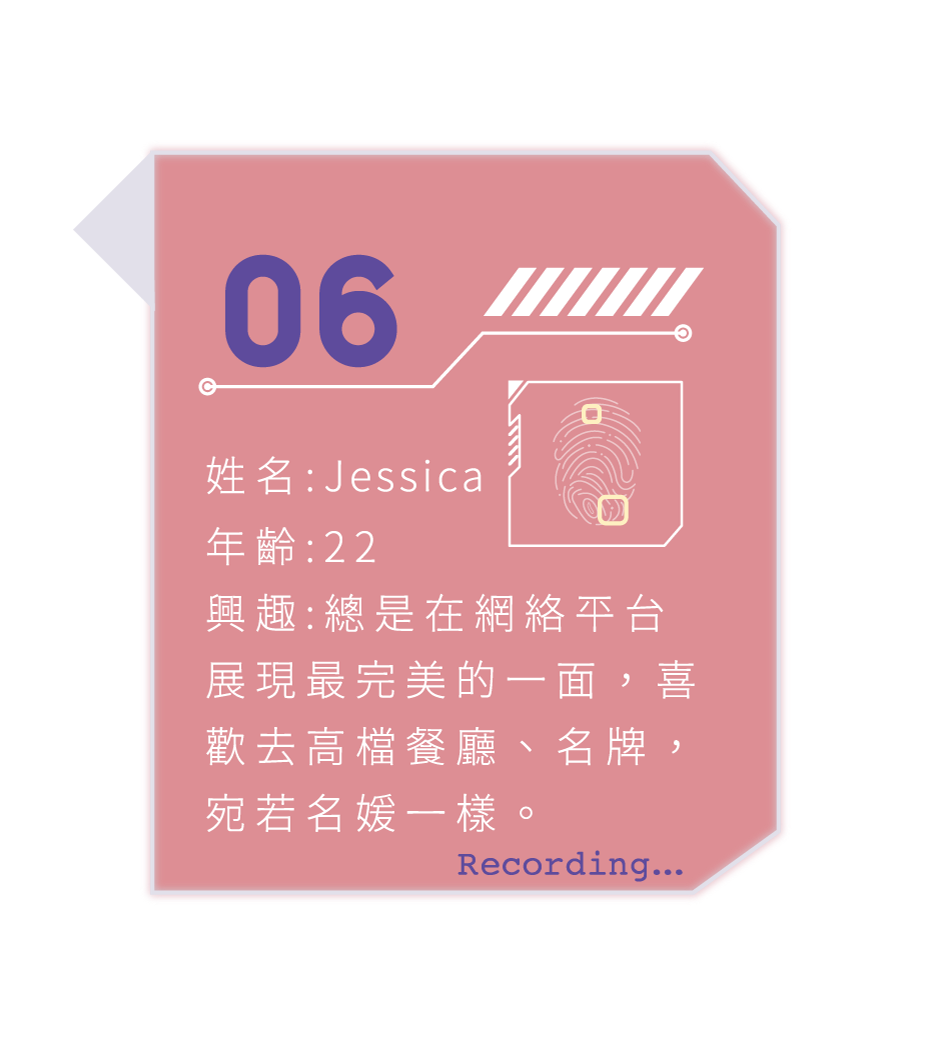
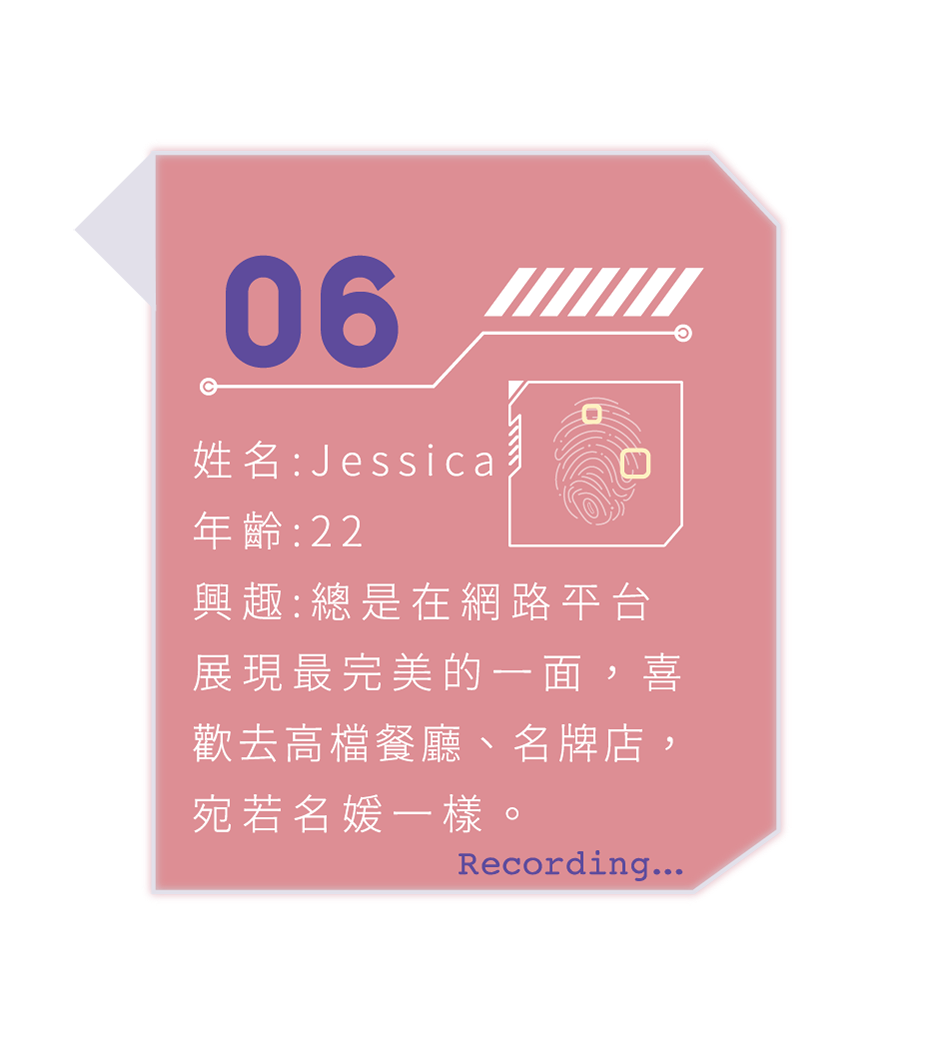
0422

diff --git a/index.html b/index.html
@@ -19,7 +19,7 @@
     <link rel="stylesheet" href="./styles/pass01.css">
     <link rel="stylesheet" href="./styles/pass07.css">
 <body>
-      <img src="./styles/images/open.gif" alt="" class="OpeningAnimation">
+      <!-- <img src="./styles/images/open.gif" alt="" class="OpeningAnimation"> -->
       <main id="main">
           <h1 id="t" style="color:#fff"></h1>
           <div class="share">
@@ -702,16 +702,29 @@
 </div>
         <div id="room01pass">
             <div id="pass01border">
-                <img src="./styles/images/pass01/border.png" alt="" id="p1border">
-                <img src="./styles/images/pass01/pre.png" alt="" id="p1-prevPage">
+                <img src="./styles/images/pass01/border.png"  id="p1border">
+                <img src="./styles/images/pass01/pre.png"  id="p1-prevPage">
+                <img src="./styles/images/pass01/home.png" id="p1-home">
             </div>
             <div id="room01passContent">
                     <div id="room01passTop">
                             <img src="./styles/images/pass01/top2.png" alt="" id="topbg01">
                             <img src="./styles/images/pass01/box.png" alt="" id="p1box">
                         </div>
+                        <div id="room01passselect">
+                            <img src="./styles/images/pass01/selectbg.png" id="p1selectbg">
+                            <img src="./styles/images/pass01/boy.png" id="p1boy">
+                            <img src="./styles/images/pass01/girl.png" id="p1girl">
+                            <img src="./styles/images/pass01/step.png" id="p1step">
+
+                        </div>
                         <div id="room01passBottom">
-                            <!-- <img src="./styles/images/pass01/pre.png" alt="" id="p1-prevPage-2"> -->
+                            <img src="./styles/images/pass01/bottom3.png" id="bottombg01girl">     
+                            <img src="./styles/images/pass01/body6.png" alt="" id="p1body2">
+                            <img src="./styles/images/pass01/head5.png" alt="" id="p1head2">
+
+
+
                             <img src="./styles/images/pass01/bottom2.png" alt="" id="bottombg01">
                             <img src="./styles/images/pass01/body1.png" alt="" id="p1body">
                             <img src="./styles/images/pass01/head1.png" alt="" id="p1head">
@@ -749,6 +762,7 @@
                             <img src="./styles/images/pass01/attr6.png" alt="" id="p1attr6">
             
                         </div>
+                        
             </div>
             
         </div>

diff --git a/styles/pass01.css b/styles/pass01.css
@@ -46,7 +46,9 @@
     left:0;
 }
 #room01pass #room01passTop,
-#room01pass #room01passBottom{
+#room01pass #room01passBottom,
+#room01pass #room01passBottom2,
+#room01pass #room01passselect{
     width:1300px;
     margin:auto;
     position: relative;
@@ -54,7 +56,9 @@
     height: 550px;
 }
 #room01pass #room01passTop #topbg01,
-#room01pass #room01passBottom #bottombg01{
+#room01pass #room01passBottom #bottombg01,
+#room01pass #room01passBottom #bottombg01girl,
+#room01pass #room01passselect #p1selectbg{
     width:100%;
 }
 
@@ -68,6 +72,18 @@
     border:none;
 }
 #room01pass  #p1-prevPage:hover{
+    transform: scale(1.1);
+}
+#room01pass  #p1-home{
+    position: absolute;
+    top: 10px;
+    left:61.5px;
+    width:40px;
+    height: 32px;
+    cursor: pointer;
+    border:none;
+}
+#room01pass  #p1-home:hover{
     transform: scale(1.1);
 }
 #room01pass #room01passBottom #p1-prevPage-2{
@@ -84,21 +100,28 @@
 }
 #room01pass #room01passTop #p1box{
     position: absolute;
-    top: 218.5px;
-    left:1073px;
-    width:170px;
+    top: 226px;
+    left:1081.5px;
+    width:154px;
     height: auto;
     cursor: pointer;
 }
 
-#room01pass #room01passBottom #p1body {
+#room01pass #room01passBottom #p1body{
     position: absolute;
     top: 229px;
     left:430px;
     width:808px;
     height: auto;
 }
-#room01pass #room01passBottom #p1head {
+#room01pass #room01passBottom #p1body2{
+    position: absolute;
+    top: 229px;
+    left:480px;
+    width:780px;
+    height: auto;
+}
+#room01pass #room01passBottom #p1head{
     position: absolute;
     top: 162px;
     left:1062px;
@@ -107,6 +130,13 @@
     /* top: 215px;
     left:1056px;
     width:111px; */
+}
+#room01pass #room01passBottom #p1head2{
+    position: absolute;
+    top: 139px;
+    left:1028px;
+    width:122px;
+    height: auto;
 }
 #room01pass #room01passBottom #p1cm{
     position: absolute;
@@ -276,6 +306,30 @@
     top: 163px;
     left:757px;
     width:70px;
+    height: auto;
+    cursor: pointer;
+}
+#room01pass #room01passselect #p1boy{
+    position: absolute;
+    top: 193px;
+    left:535px;
+    width:276px;
+    height: auto;
+    cursor: pointer;
+}
+#room01pass #room01passselect #p1girl{
+    position: absolute;
+    top: 193px;
+    left:845px;
+    width:276px;
+    height: auto;
+    cursor: pointer;
+}
+#room01pass #room01passselect #p1step{
+    position: absolute;
+    bottom: 38px;
+    right:67px;
+    width:87px;
     height: auto;
     cursor: pointer;
 }

diff --git a/script/script.js b/script/script.js
@@ -2518,6 +2518,7 @@ var p1addnumber2 = document.getElementById('p1addnumber2');
 var p1addnumber3 = document.getElementById('p1addnumber3');
 var p1addnumber4 = document.getElementById('p1addnumber4');
 var p1addnumber5 = document.getElementById('p1addnumber5');
+const room01passBottom2 = document.getElementById('room01passBottom2');
 p1attr1.addEventListener('click',()=>{
     p1attr1num++;
     if(p1attr1num % 2 === 1){
@@ -2710,6 +2711,53 @@ p1add5.addEventListener('click',()=>{
     p1addnumber5.innerHTML = p1addnumber5num;
 })
 
+function p1closeFn(){
+    // room01passselect.style.display = "none";
+    room01passBottom.style.display = "none"
+}
+function p1openboy(){
+    bottombg01girl.style.display = "none";
+    p1body2.style.display = "none";
+    p1head2.style.display = "none";
+}
+function p1opengirl(){
+    bottombg01.style.display = "none";
+    p1body.style.display = "none";
+    p1head.style.display = "none";
+    p1cm.style.display = "none";
+}
+
+p1closeFn();
+const p1selectbg = document.getElementById('p1selectbg');
+const p1boy = document.getElementById('p1boy');
+const p1girl = document.getElementById('p1girl');
+const p1step = document.getElementById('p1step');
+
+p1boy.addEventListener('click',()=>{
+    p1girl.src = "./styles/images/pass01/girl.png";
+    p1boy.src = "./styles/images/pass01/boy2.png";
+})
+p1girl.addEventListener('click',()=>{
+    p1boy.src = "./styles/images/pass01/boy.png";
+    p1girl.src = "./styles/images/pass01/girl2.png";
+})
+p1step.addEventListener('mouseover',()=>{
+    p1step.src = "./styles/images/pass01/step2.png";
+})
+p1step.addEventListener('mouseout',()=>{
+    p1step.src = "./styles/images/pass01/step.png";
+})
+p1step.addEventListener('click',()=>{
+    if(p1boy.src.split("pass01/")[1] === "boy2.png" && p1girl.src.split("pass01/")[1] === "girl.png"){
+        room01passselect.style.display = "none";
+        p1openboy();
+        room01passBottom.style.display = "block";
+    }else if(p1girl.src.split("pass01/")[1] === "girl2.png" && p1boy.src.split("pass01/")[1] === "boy.png"){
+        room01passselect.style.display = "none";
+        p1opengirl();
+        room01passBottom.style.display = "block";
+    }else{}
+})
 // pass07
 var p7box =  document.getElementById('p7box');
 var p7control1 = document.getElementById('p7control1');

diff --git a/styles/style2.css b/styles/style2.css
@@ -55,7 +55,7 @@ main{
     width: 800px;
     height: 442px;
     position: absolute;
-    top:calc(50% - 280px);
+    top:calc(50% - 250px);
     left: calc(50% - 250px);
     z-index: -1;
     
